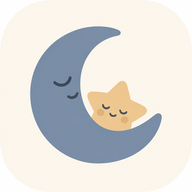
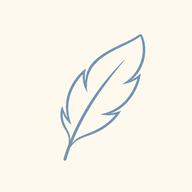
Changes

Changed region(s): [[0.1562, 0.125, 0.8438, 0.875], [0.625, 0.3125, 0.6562, 0.3438], [0.5938, 0.3438, 0.625, 0.375]]

diff --git a/src/components/AppShell.tsx b/src/components/AppShell.tsx
@@ -1,5 +1,5 @@
 import { Link } from "@tanstack/react-router";
-import { Baby, Moon, Sparkles, Sun, Waves, Wifi, WifiOff } from "lucide-react";
+import { Feather, Moon, Sparkles, Sun, Waves, Wifi, WifiOff } from "lucide-react";
 import { useEffect, useState, type ReactNode } from "react";
 import { useHydrated, useOnline } from "@/hooks/useOnline";
 import { cn } from "@/lib/utils";
@@ -53,18 +53,21 @@ function StatusBadge() {
 }
 
 const tabs = [
-  { to: "/", label: "Tracker", icon: Baby },
+  { to: "/", label: "Tracker", icon: Feather },
   { to: "/sounds", label: "Sounds", icon: Waves },
-  { to: "/ask", label: "Ask AI", icon: Sparkles },
+  { to: "/ask", label: "Nanny AI", icon: Sparkles },
 ] as const;
 
 export function AppShell({ children }: { children: ReactNode }) {
   return (
     <div className="mx-auto flex min-h-[100dvh] w-full max-w-md flex-col bg-background">
       <header className="sticky top-0 z-20 flex items-center justify-between gap-3 border-b border-border/60 bg-background/90 px-4 py-3 backdrop-blur">
-        <div>
-          <p className="font-display text-lg font-bold leading-tight">NurseryShift</p>
-          <StatusBadge />
+        <div className="flex items-center gap-2.5">
+          <Feather className="h-6 w-6 text-muted-foreground" strokeWidth={2} />
+          <div>
+            <p className="font-display text-lg font-bold leading-tight">Nestling</p>
+            <StatusBadge />
+          </div>
         </div>
         <ThemeToggle />
       </header>
